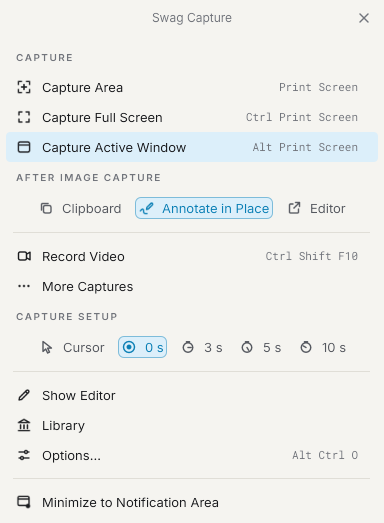
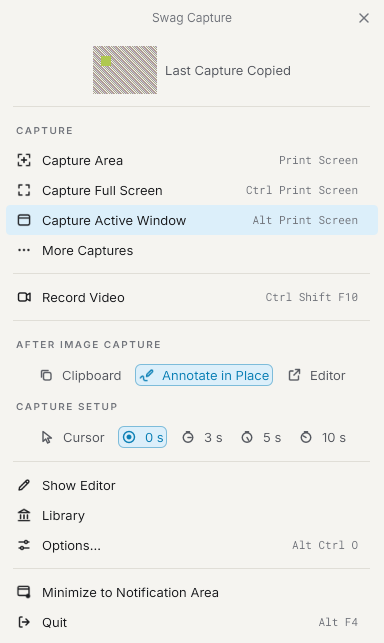
Show copied captures in the hub and notification menu

diff --git a/backlog/design/README.md b/backlog/design/README.md
@@ -747,13 +747,15 @@ the screen to its work.
   picture group has one destination for every still capture: Clipboard, Annotate in Place,
   or Editor. A settings row groups cursor and delay. The editor and library own recent captures.
 - Minimize to Notification Area is the only entry to resident mode, from the capture window
-  or the editor's lens. The icon opens a transient menu with the same capture commands.
-  Opening the capture window or the editor removes the icon. Closing a work window quits.
+  or the editor's lens. A notice confirms that Capture is still running. The icon opens a
+  transient menu with the same capture commands. Opening the capture window or the editor
+  removes the icon. Quit at the end of the menu and the work window's close button both exit.
 - Capture temporarily clears its controls from the screen. Canceling brings back the work
   window it started from, and a capture already launched from resident mode stays behind the icon.
   The Editor destination and the in-place editor's Open in Editor action open the full editor.
-  Copy from the capture window completes a one-shot launch on Windows; Linux keeps the capture
-  window available to serve the clipboard. Copy from the editor returns to the editor.
+  Copy from the capture window brings it back with a preview of the last copied screen capture.
+  In resident mode a notice confirms the copy, and the preview appears when the menu opens.
+  Copy from the editor returns to the editor.
 
 ![Resident hub, Encre](imgs/capture.hub.png) ![Hub keyboard selection, Papier](imgs/capture.hub.keyboard.paper.png)
 
